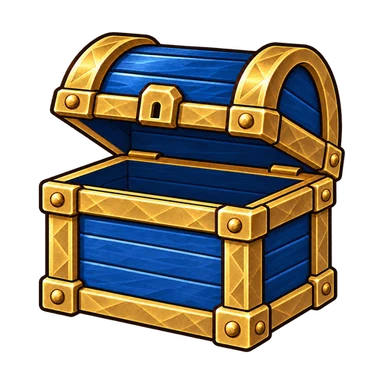
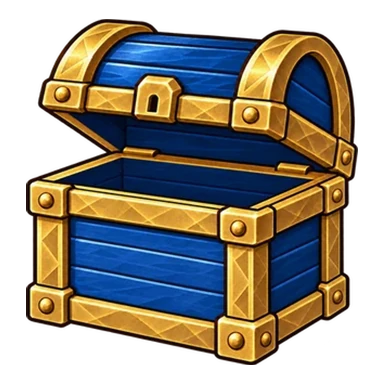
Normalize reward chest crops and enforce production fill checks

diff --git a/apps/game/src/ui/features/world/latest-features.ts b/apps/game/src/ui/features/world/latest-features.ts
@@ -37,7 +37,7 @@ const allLatestFeatures: LatestFeature[] = [
     date: "2026-10-18",
     title: "Reward chests keep their tiers",
     description:
-      "Blitz rewards show their own rank-band chest artwork in panel titles, entry details and Open buttons. Map crates keep their in-game model.",
+      "Blitz rewards show their own rank-band chest artwork in panel titles, entry details and Open buttons. The approved paintings fill their frames. Map crates keep their in-game model.",
     type: "fix",
   },
   {

diff --git a/scripts/icons/AGENTS.md b/scripts/icons/AGENTS.md
@@ -1,14 +1,16 @@
 # Icon delivery rules
 
-| Rule                                                                                                                                   | Enforcement                                                                                                                                                                                                                                                                                                                                                                                               |
-| -------------------------------------------------------------------------------------------------------------------------------------- | --------------------------------------------------------------------------------------------------------------------------------------------------------------------------------------------------------------------------------------------------------------------------------------------------------------------------------------------------------------------------------------------------------- |
-| The visible subject fills at least 85% of the square's longest side; target 90%. Use subject-only model renders without terrain tiles. | `normalizeMaster` crops at alpha 128, fits 920/1024, and asserts fill. `deliverIcon` crops for the final pixel size and checks encoded bytes before writing. `icons:check` checks every 64/128/256 production image; `icons:study --check` checks proposals. `normalize.test.mjs` rejects an actual undersized delivery and a faint-border control. Model subject selection still requires visual review. |
-| Normal validation and restoring delivered sources work without historical git objects.                                                 | Pinned committed archives and hashes; `source.test.mjs`; `icons:import`; `icons:study --check`. Revision fields document provenance only.                                                                                                                                                                                                                                                                 |
-| A successful browser action must reach its intended state and satisfy the shared proof collector.                                      | `proveResourceIcons` checks the active tab and records `led`/`failed`; `proof-record.test.mjs` calls the actual proof and `problemsOf`, including decode, mapping and navigation failures.                                                                                                                                                                                                                |
+| Rule                                                                                                                                   | Enforcement                                                                                                                                                                                                                                                                                                                                                                                                                                      |
+| -------------------------------------------------------------------------------------------------------------------------------------- | ------------------------------------------------------------------------------------------------------------------------------------------------------------------------------------------------------------------------------------------------------------------------------------------------------------------------------------------------------------------------------------------------------------------------------------------------ |
+| The visible subject fills at least 85% of the square's longest side; target 90%. Use subject-only model renders without terrain tiles. | `normalizeMaster` crops at alpha 128, fits 920/1024, and asserts fill. `deliverIcon` crops for the final pixel size and checks encoded bytes before writing. `icons:check` checks every 64/128/256 production image and every 384 px reward chest delivery; `icons:study --check` checks proposals. `normalize.test.mjs` rejects an actual undersized delivery and a faint-border control. Model subject selection still requires visual review. |
+| Normal validation and restoring delivered sources work without historical git objects.                                                 | Pinned committed archives and hashes; `source.test.mjs`; `icons:import`; `icons:study --check`. Revision fields document provenance only.                                                                                                                                                                                                                                                                                                        |
+| A successful browser action must reach its intended state and satisfy the shared proof collector.                                      | `proveResourceIcons` checks the active tab and records `led`/`failed`; `proof-record.test.mjs` calls the actual proof and `problemsOf`, including decode, mapping and navigation failures.                                                                                                                                                                                                                                                       |
 
 Do not repaint or alter a subject to fix padding. Rebuild through `normalizeMaster`. Historical comparisons remain exact
 archived bytes; they are references, not production deliveries. Construction thumbnails retain their separate pipeline.
 
 Reward rank-band chests use `rewardChestMeaning` and the approved sealed/opened images. `chest` is the world's crate.
-`validate.test.mjs` rejects the old conflated mapping; `files.test.mjs` verifies and decodes all ten original images;
-`reward-panel.test.tsx` checks every band's title, full artwork and Open button.
+`validate.test.mjs` rejects the old conflated mapping; `buildRewardChests` pins all ten archived originals, exports
+through the normal normalizer, and checks fill and exact regenerated bytes for every registered delivery;
+`reward-chests.test.mjs` rejects the actual undersized originals; `reward-panel.test.tsx` checks every band's title,
+full artwork and Open button.
